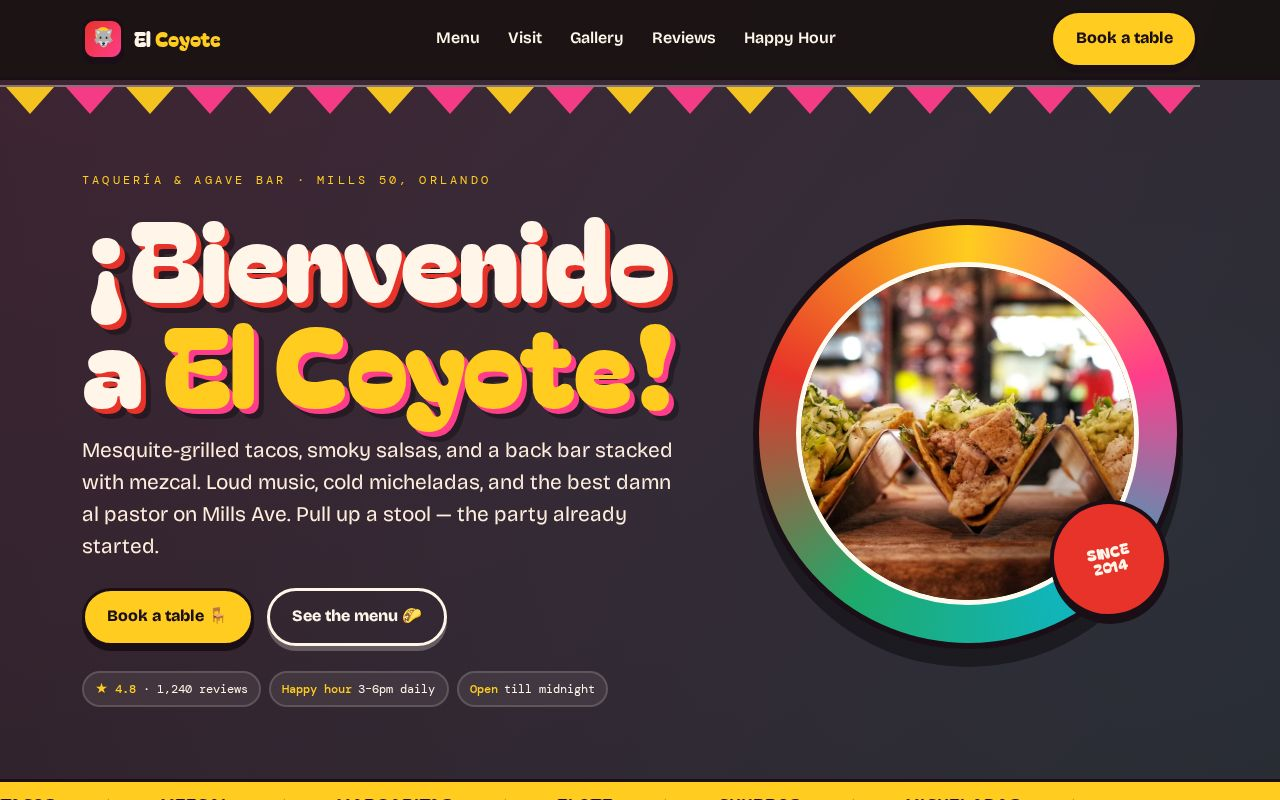
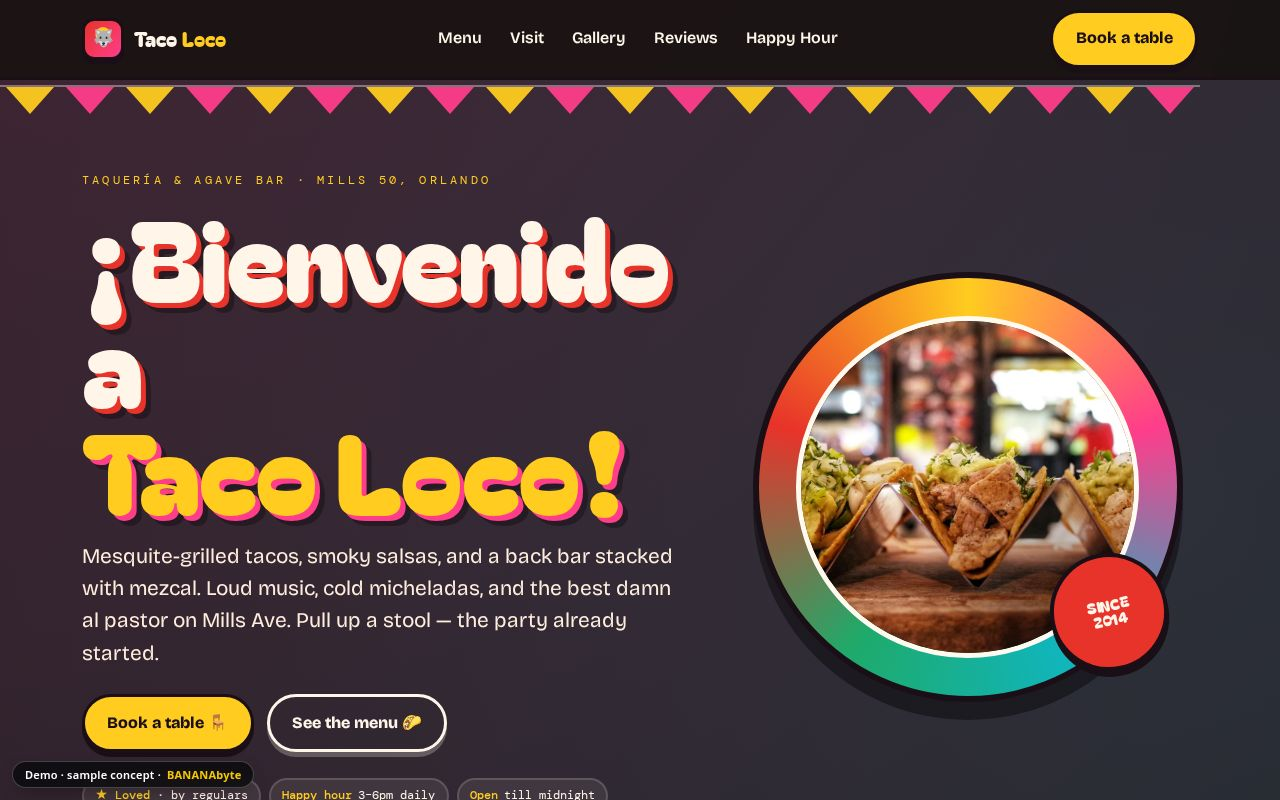
mockup: rename restaurant El Coyote -> Taco Loco
Rename across the mockup (title, wordmark, hero, menu, happy-hour, map,
social aria-labels, footer, #TacoLocoMKT, signature "Loco Margarita")
plus the /work portfolio card and the concepts gallery. Regenerate the
/work thumbnail to the new name.

diff --git a/public/concepts/mock-restaurant/index.html b/public/concepts/mock-restaurant/index.html
@@ -4,8 +4,8 @@
 <meta charset="UTF-8" />
 <meta name="viewport" content="width=device-width, initial-scale=1.0" />
 <meta name="robots" content="noindex, nofollow" />
-<title>El Coyote — Taquería &amp; Bar · Orlando</title>
-<meta name="description" content="El Coyote — a lively Mexican taquería and bar in Orlando. Tacos, agave cocktails, late-night happy hour. Book a table." />
+<title>Taco Loco — Taquería &amp; Bar · Orlando</title>
+<meta name="description" content="Taco Loco — a lively Mexican taquería and bar in Orlando. Tacos, agave cocktails, late-night happy hour. Book a table." />
 
 <link rel="preconnect" href="https://fonts.googleapis.com" />
 <link rel="preconnect" href="https://fonts.gstatic.com" crossorigin />
@@ -404,9 +404,9 @@
 <!-- ================= HEADER ================= -->
 <header class="site">
   <div class="wrap nav">
-    <a class="brand" href="#top" aria-label="El Coyote, home">
-      <span class="glyph" role="img" aria-label="El Coyote coyote emblem"></span>
-      <b>El&nbsp;<span>Coyote</span></b>
+    <a class="brand" href="#top" aria-label="Taco Loco, home">
+      <span class="glyph" role="img" aria-label="Taco Loco emblem"></span>
+      <b>Taco&nbsp;<span>Loco</span></b>
     </a>
 
     <nav aria-label="Primary">
@@ -456,7 +456,7 @@
     <div class="wrap hero-grid">
       <div>
         <p class="eyebrow">Taquería &amp; agave bar · Mills 50, Orlando</p>
-        <h1 id="hero-title" class="display">¡Bienvenido a <span class="y">El&nbsp;Coyote!</span></h1>
+        <h1 id="hero-title" class="display">¡Bienvenido a <span class="y">Taco&nbsp;Loco!</span></h1>
         <p class="lede">Mesquite-grilled tacos, smoky salsas, and a back bar stacked with mezcal. Loud music, cold micheladas, and the best damn al pastor on Mills Ave. Pull up a stool — the party already started.</p>
         <div class="hero-cta">
           <a class="btn btn-sun" href="#reserve">Book a table 🪑</a>
@@ -595,7 +595,7 @@
           <h3>🍹 De la Cantina <span class="tag">21+</span></h3>
           <div class="dish">
             <div class="d-main">
-              <div class="d-name">Coyote Margarita</div>
+              <div class="d-name">Loco Margarita</div>
               <p class="d-desc">Blanco tequila, fresh lime, agave, tajín rim.</p>
             </div>
             <div class="d-price">$12</div>
@@ -650,13 +650,13 @@
           <span class="open-pill"><span class="dot" aria-hidden="true"></span> Open now · kitchen till 11pm</span>
 
           <p class="addr">
-            <strong>El Coyote Taquería</strong><br>
+            <strong>Taco Loco Taquería</strong><br>
             1148 N Mills Ave, Orlando, FL 32803<br>
             <a href="#visit">Get directions →</a>
           </p>
         </div>
 
-        <div class="map" role="img" aria-label="Stylized map showing El Coyote located on North Mills Avenue near East Colonial Drive in Orlando.">
+        <div class="map" role="img" aria-label="Stylized map showing Taco Loco located on North Mills Avenue near East Colonial Drive in Orlando.">
           <svg viewBox="0 0 400 300" preserveAspectRatio="xMidYMid slice" aria-hidden="true">
             <rect width="400" height="300" fill="#10302f"/>
             <!-- park blocks -->
@@ -673,7 +673,7 @@
           </svg>
           <div class="pin">
             <span class="dot" aria-hidden="true"></span>
-            <span class="lbl">El Coyote</span>
+            <span class="lbl">Taco Loco</span>
           </div>
           <span class="legend">N Mills Ave × E Colonial Dr</span>
         </div>
@@ -688,7 +688,7 @@
         <p class="eyebrow" style="color:var(--sun)">Grab a spot</p>
         <h2 id="reserve-title" class="display">Reserve a table</h2>
         <p style="color:#ffe2cf;font-weight:600;max-width:42ch">Big group, date night, or just hungry — book ahead and skip the wait. We hold tables for 15 minutes past your time.</p>
-        <a class="phone" href="tel:+14075550199" aria-label="Call El Coyote at 407 555 0199">📞 (407) 555-0199</a>
+        <a class="phone" href="tel:+14075550199" aria-label="Call Taco Loco at 407 555 0199">📞 (407) 555-0199</a>
         <p class="walkin">Walk-ins always welcome at the bar. For parties of 10+, call us directly.</p>
       </div>
 
@@ -761,7 +761,7 @@
       <div class="sec-head">
         <p class="eyebrow">On the table</p>
         <h2 id="gallery-title" class="display">From our kitchen</h2>
-        <p>A taste of what's coming out of the comal tonight. Tag us <span class="mono" style="color:var(--pink)">#ElCoyoteMKT</span> and we might feature you.</p>
+        <p>A taste of what's coming out of the comal tonight. Tag us <span class="mono" style="color:var(--pink)">#TacoLocoMKT</span> and we might feature you.</p>
       </div>
 
       <div class="gallery">
@@ -822,7 +822,7 @@
       <div class="hh-card">
         <div>
           <p class="eyebrow">Daily · 3–6pm &amp; late night</p>
-          <h2 id="hh-title">Happy Hour at the Coyote</h2>
+          <h2 id="hh-title">Happy Hour at Taco Loco</h2>
           <p>$2 off every taco, half-price guac, $6 house margaritas and $5 micheladas. Then we crank the music back up for late-night specials after 10pm. Come thirsty.</p>
 
           <div class="hh-events">
@@ -857,7 +857,7 @@
     <div class="wrap news-inner">
       <div>
         <h2 id="news-title">Get the inside scoop</h2>
-        <p>Join the Coyote list for secret specials, event invites, and a free guac on your birthday. No spam, just snacks.</p>
+        <p>Join the Taco Loco list for secret specials, event invites, and a free guac on your birthday. No spam, just snacks.</p>
       </div>
 
       <form class="news-form" id="newsForm" novalidate aria-describedby="news-feedback">
@@ -877,16 +877,16 @@
   <div class="wrap">
     <div class="foot-grid">
       <div>
-        <a class="brand" href="#top" aria-label="El Coyote, back to top">
-          <span class="glyph" role="img" aria-label="El Coyote emblem"></span>
-          <b>El&nbsp;<span>Coyote</span></b>
+        <a class="brand" href="#top" aria-label="Taco Loco, back to top">
+          <span class="glyph" role="img" aria-label="Taco Loco emblem"></span>
+          <b>Taco&nbsp;<span>Loco</span></b>
         </a>
         <p style="max-width:34ch;color:#e6d6c6;margin-top:.9rem">A lively Mexican taquería &amp; agave bar in the Mills 50 district, Orlando. Tacos, mezcal, good trouble.</p>
         <div class="socials" aria-label="Social media">
-          <a href="#happyhour" aria-label="El Coyote on Instagram">IG</a>
-          <a href="#happyhour" aria-label="El Coyote on TikTok">TT</a>
-          <a href="#happyhour" aria-label="El Coyote on Facebook">FB</a>
-          <a href="#reviews" aria-label="El Coyote on Yelp">Yp</a>
+          <a href="#happyhour" aria-label="Taco Loco on Instagram">IG</a>
+          <a href="#happyhour" aria-label="Taco Loco on TikTok">TT</a>
+          <a href="#happyhour" aria-label="Taco Loco on Facebook">FB</a>
+          <a href="#reviews" aria-label="Taco Loco on Yelp">Yp</a>
         </div>
       </div>
 
@@ -908,7 +908,7 @@
     </div>
 
     <div class="foot-bottom">
-      <span>© 2026 El Coyote Taquería. All rights reserved. · Drink responsibly. 21+ at the bar.</span>
+      <span>© 2026 Taco Loco Taquería. All rights reserved. · Drink responsibly. 21+ at the bar.</span>
       <a class="bbcredit" href="https://bananabyte.io" target="_blank" rel="noopener">Site by <b>BANANAbyte</b> 🍌</a>
     </div>
   </div>

diff --git a/public/concepts/index.html b/public/concepts/index.html
@@ -59,7 +59,7 @@
       <a class="card" href="mock-wrestler/"><div class="num">P7</div><div class="name">Entertainer — Wrestler</div><p class="head">Rico "The Avalanche" Marsh</p><p class="pal">Steel + championship-gold + blood-red · match schedule + highlights + stats + merch · larger-than-life</p><span class="view">Open →</span></a>
       <a class="card" href="mock-dj/"><div class="num">P8</div><div class="name">Entertainer — DJ</div><p class="head">NOVA · techno/house · "rooms that don't sleep"</p><p class="pal">Neon nightclub · black/indigo + cyan/magenta · Syne · animated visualizer + waveforms · FUN/animated</p><span class="view">Open →</span></a>
       <a class="card" href="mock-magician/"><div class="num">P9</div><div class="name">Entertainer — Magician</div><p class="head">Marveau · Master of Illusion</p><p class="pal">Velvet jewel · midnight blue/plum + antique gold · Cinzel · sparkle/reveal animation · FUN/animated</p><span class="view">Open →</span></a>
-      <a class="card" href="mock-restaurant/"><div class="num">P10</div><div class="name">Restaurant — El Coyote</div><p class="head">"¡Bienvenido!" · taqueria & bar</p><p class="pal">Fiesta · sun-yellow + chili-red + cactus-green + pink · Bagel Fat One · menu + reservations · vibrant</p><span class="view">Open →</span></a>
+      <a class="card" href="mock-restaurant/"><div class="num">P10</div><div class="name">Restaurant — Taco Loco</div><p class="head">"¡Bienvenido!" · taqueria & bar</p><p class="pal">Fiesta · sun-yellow + chili-red + cactus-green + pink · Bagel Fat One · menu + reservations · vibrant</p><span class="view">Open →</span></a>
     </div>
   </div>
 

diff --git a/public/work/index.html b/public/work/index.html
@@ -564,15 +564,15 @@
           <!-- 10 -->
           <li class="card reveal" data-category="Restaurant">
             <a class="cover" href="/concepts/mock-restaurant/" target="_blank" rel="noopener">
-              <span class="sr">View live demo — El Coyote, taqueria and bar (opens in a new tab)</span>
+              <span class="sr">View live demo — Taco Loco, taqueria and bar (opens in a new tab)</span>
             </a>
             <div class="thumb">
               <div class="tags"><span class="tag cat">Restaurant</span><span class="tag demo">Demo</span></div>
               <img src="thumbs/mock-restaurant.jpg" width="1280" height="800" loading="lazy" decoding="async"
-                   alt="Vibrant restaurant website for El Coyote taqueria and bar with a menu, photo gallery and reservations.">
+                   alt="Vibrant restaurant website for Taco Loco taqueria and bar with a menu, photo gallery and reservations.">
             </div>
             <div class="body">
-              <h2>El Coyote — Taqueria &amp; Bar</h2>
+              <h2>Taco Loco — Taqueria &amp; Bar</h2>
               <p class="blurb">A vibrant restaurant site with menu, gallery and reservations.</p>
               <span class="view">View live demo <span class="arrow" aria-hidden="true">→</span></span>
             </div>
